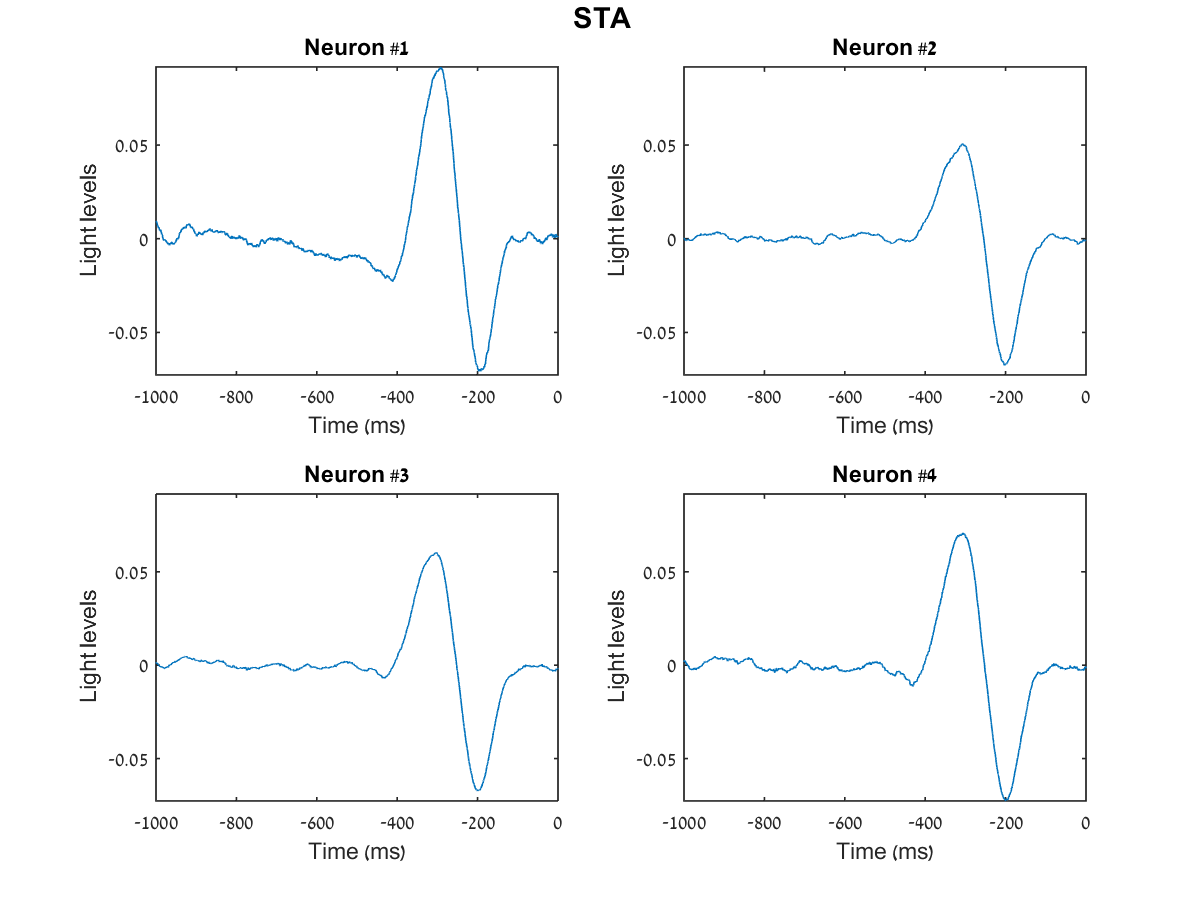
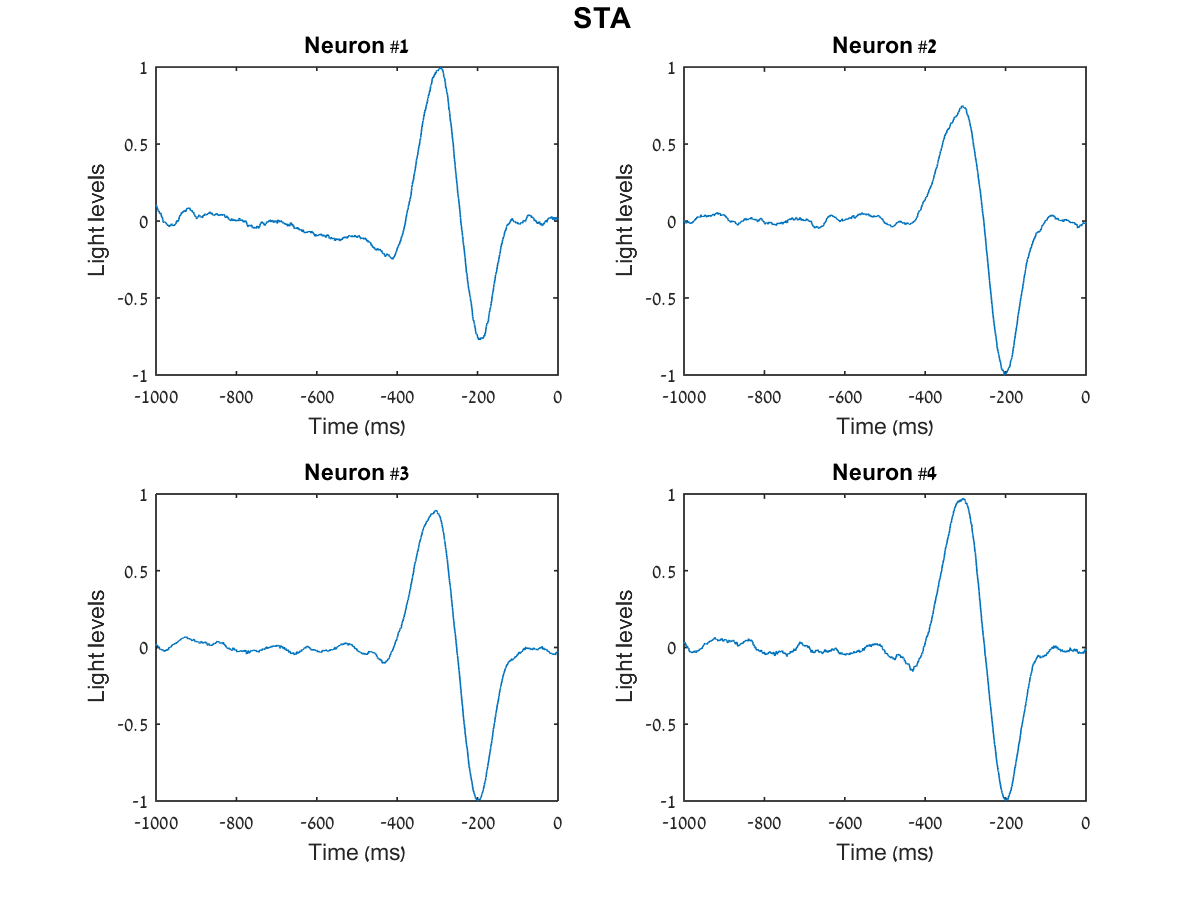
pre QnD: normalizing STA and Filter upon generation

diff --git a/4/STASTCPhase.m b/4/STASTCPhase.m
@@ -106,10 +106,9 @@ for iNeuron=1:NEURONS
     normalize: 
         this way we unify all the filters from different neurons,
         so we could compare them.
-    
-        NOTE: checked without normalize, the linear fit looks worse
     %}
-    STA=(STA-mean(STA))./max(abs(STA));
+    NORMALIZE = 1; NORMALIZE_BY_MAX=1;
+    STA=normalize(STA, NORMALIZE, NORMALIZE_BY_MAX);
     
     %use for ploting
     minSTAValue = min(minSTAValue, min(STA));
@@ -147,7 +146,8 @@ for iNeuron=1:NEURONS
         [~,idx] = max(eVals);
 
         Filter = eVects(:, idx)';
-        Filter = normalize(Filter, 1, 1);
+        NORMALIZE = 1; NORMALIZE_BY_MAX=1;
+        Filter = normalize(Filter, NORMALIZE, NORMALIZE_BY_MAX);
 
         %use for ploting
         minSTCFilterValue = min(minSTCFilterValue, min(Filter));
@@ -165,7 +165,7 @@ figure(1);
 for iNeuron=1:NEURONS
     subplot(2,2, iNeuron);
     STA = Simulation.Neuron{iNeuron}.STA;
-        
+    
     x = linspace(-STA_WINDOW_IN_MS, 0, length(STA));
     plot(x, STA);
     
